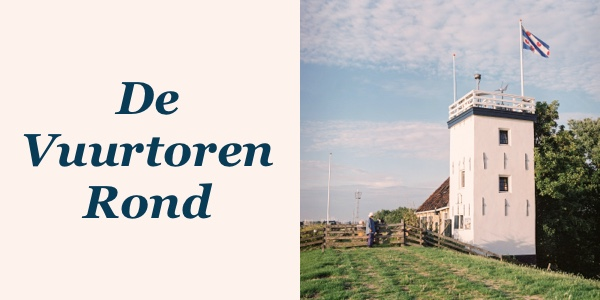
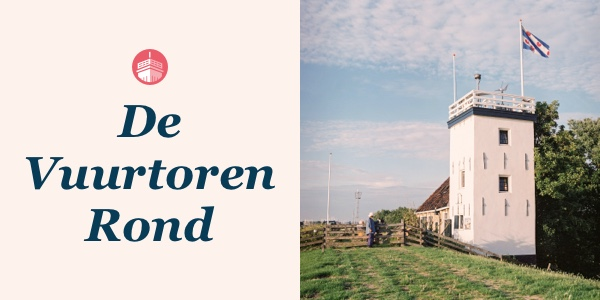
social image design update

Changed region(s): [[0.03, 0.15, 0.48, 0.81]]

diff --git a/index.html b/index.html
@@ -128,7 +128,8 @@
 <body>
 
 	<!-- todo:
-		- create social share preview image
+		x link .com domein naar .nl
+		x create social share preview image
 		x voeg "over" text toe
 		x optimize the header image
 		x mobile responsive
